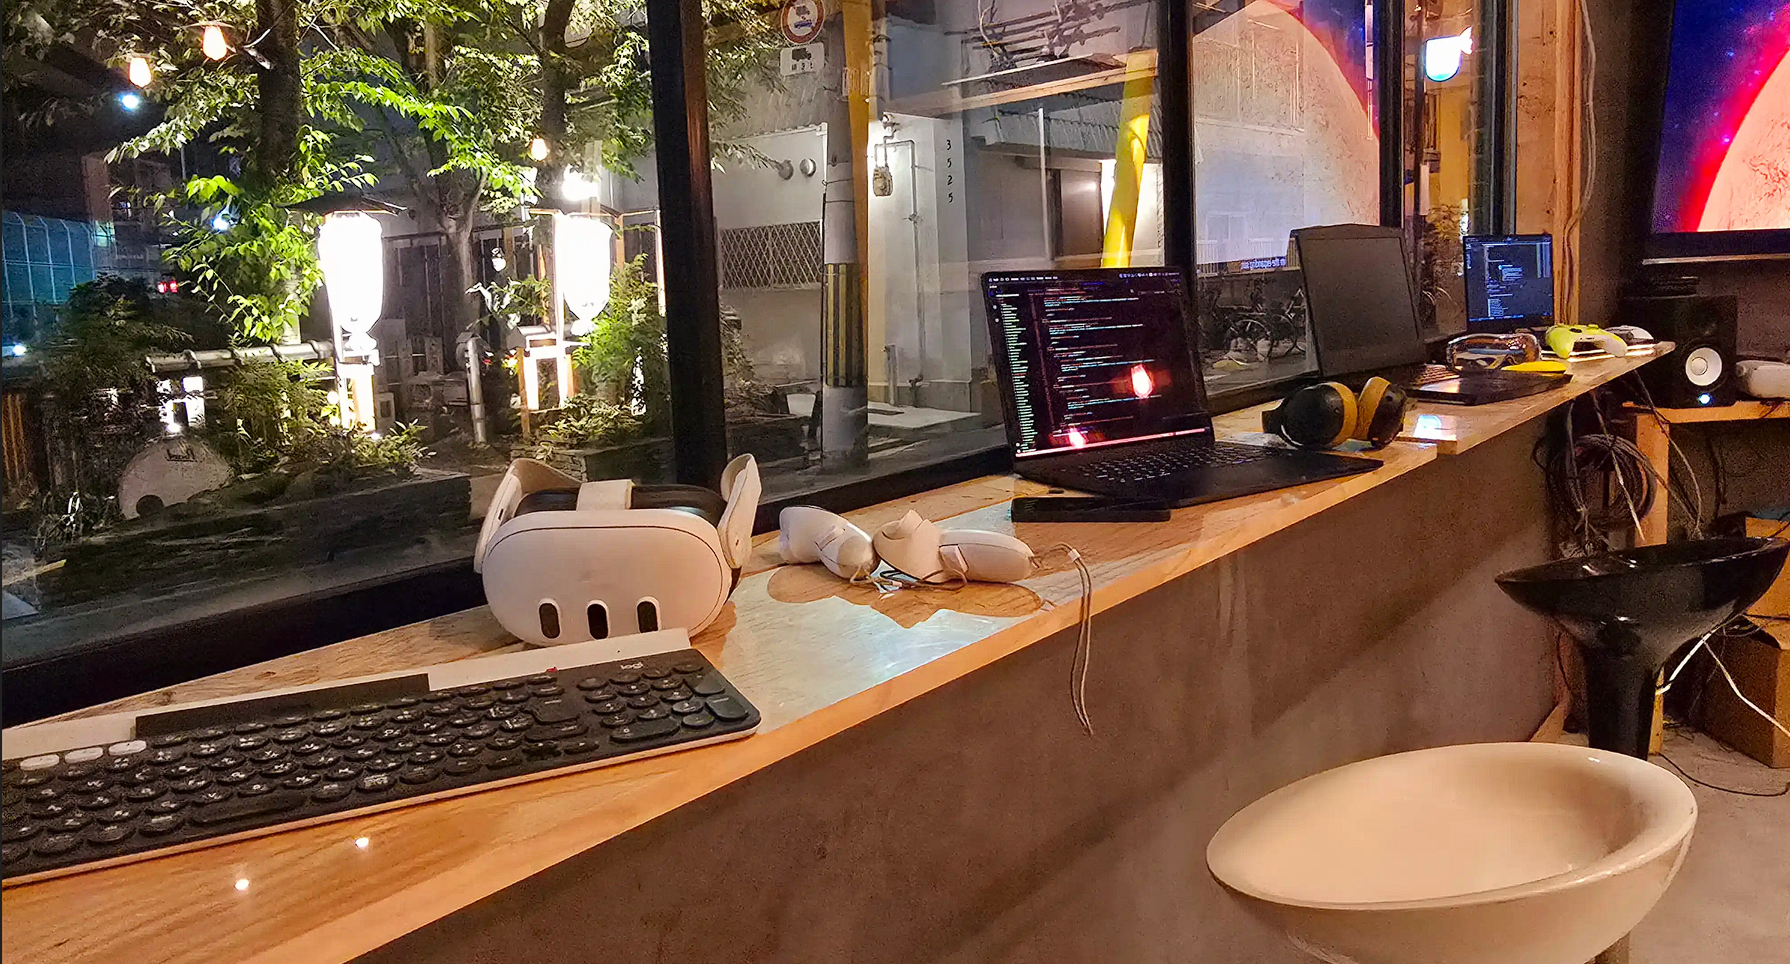
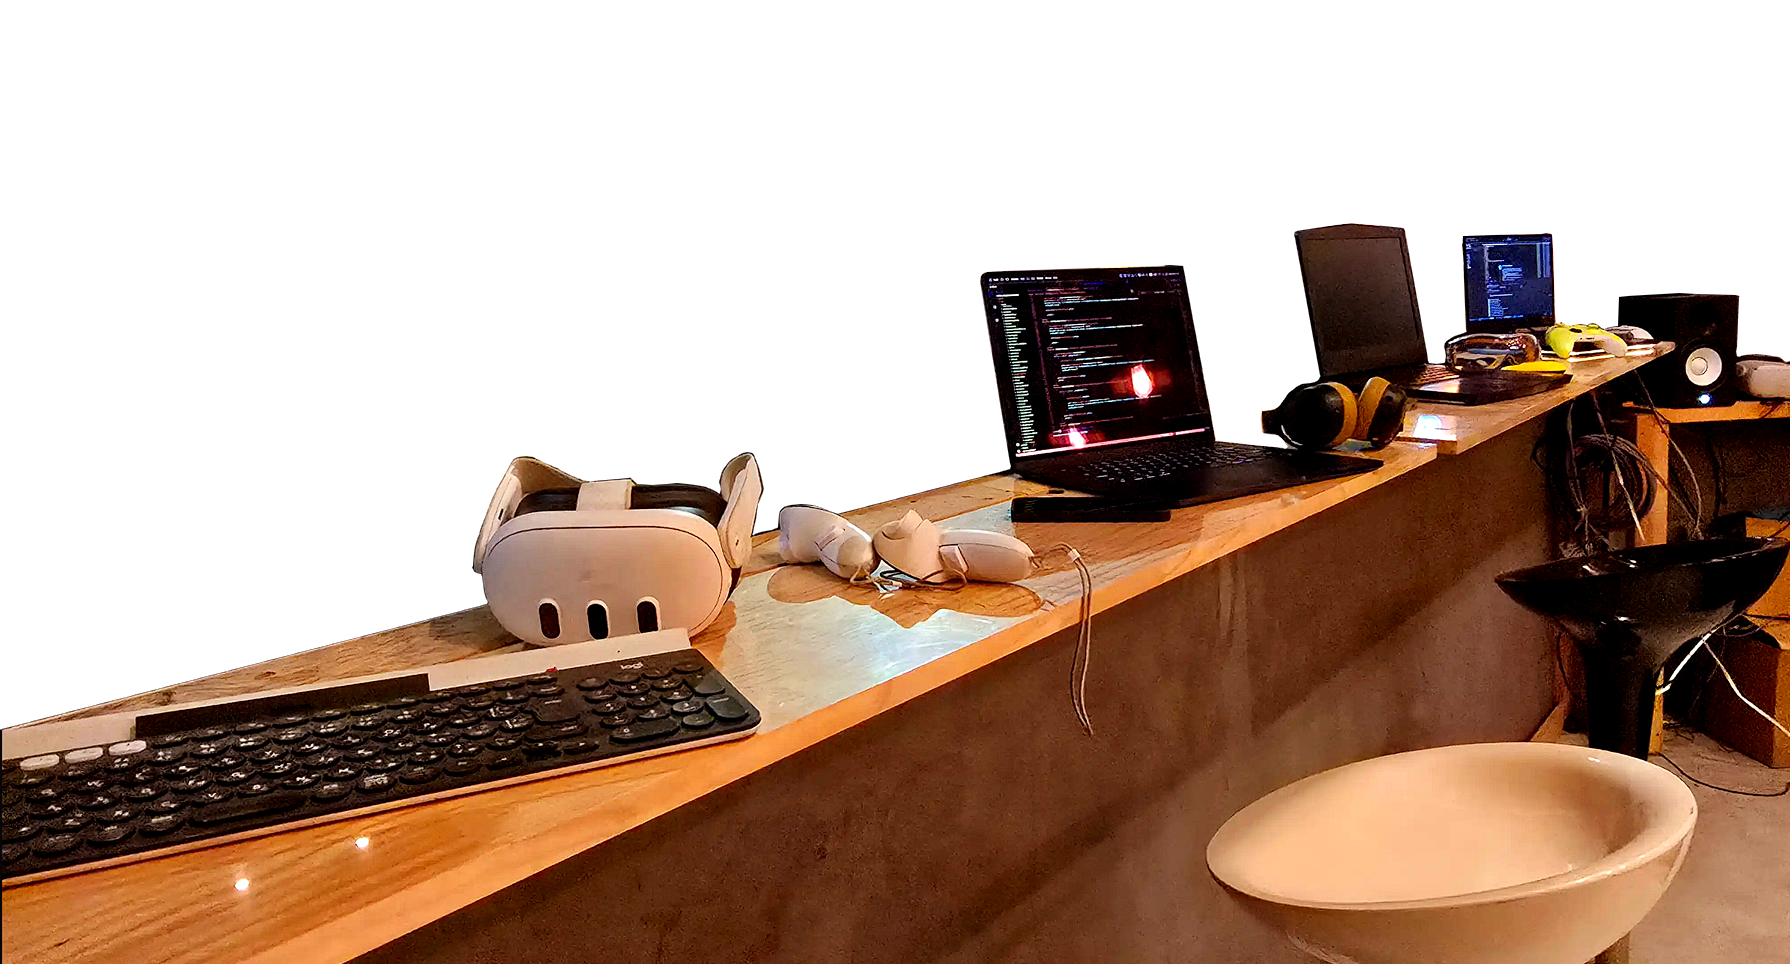
update viz

diff --git a/src/content/spec/studio.md b/src/content/spec/studio.md
@@ -1,14 +1,14 @@
-# Learn. Collaborate. Ship. 
-
+ # Learn. Collaborate. Ship.
+<!--<h1>Learn. Collaborate. Ship. </h1> -->
 <!--
 
 
-        <div class="tags flex flex-wrap justify-evenly gap-2 text-xl font-normal text-75 not-prose">
-            <span >Games</span>
-            <span >Workshops</span>
-            <span >Community</span>
-            <span >Projects</span>
-        </div>
+  <div class="tags flex flex-wrap justify-evenly gap-2 text-xl font-normal text-75 not-prose">
+      <span >Games</span>
+      <span >Workshops</span>
+      <span >Community</span>
+      <span >Projects</span>
+  </div>
 
 
 <div class="tags flex flex-wrap gap-2 text-xl font-normal text-75 not-prose">
@@ -24,7 +24,7 @@
 <div class = "flex felx-wrap gap-2"> 
     <div class = "test-panel px-10 py-1 rounded-lg">
     
-<p>A creative workspace for indie games, 
+<p class="text-center"> A creative workspace for indie games, 
 workshops, livestreams, and community sessions in Osaka.</p>
     </div>
 </div>
@@ -52,6 +52,10 @@ It is a guided production experience focused on teamwork, collaboration, product
 
 Participants will experience what it is like to work on a small game team, contribute to a real production pipeline, and help bring a project from concept to release.
 
+  <div class="studio-register-action">
+    <a class="btn-regular-featured studio-register-button-light" href="#">Register</a>
+  </div>
+
 ---
 
 # What Is Secret Shop Studio?
@@ -66,7 +70,7 @@ The goal is not simply to learn software. </br>
 The goal is to learn how games are actually made. </br></p> 
 
 
-<div class=" studio-experience-split">
+<div class="studio-experience-split studio-experience-split--image-right">
   <div class="studio-experience-copy">
     <p><strong>Participants will gain experience with:</strong></p>
     <ul>
@@ -112,23 +116,24 @@ Leave with portfolio material, production experience, and a published project th
 
 ---
 
-# Our Philosophy
+#  Our Philosophy 
 
-Secret Shop Studio is **project-driven rather than curriculum-driven**.</br>
-Participants will inevitably learn tools, workflows, and production practices throughout the project.</br>
-However, the primary goal is not to teach a predefined curriculum.</br>
-The primary goal is to guide a team through the process of planning, building, and shipping a game.</br>
-When challenges arise, participants will be encouraged to learn what they need to move the project forward.</br>
-Sometimes this may involve mentorship.</br>
-Sometimes this may involve learning new tools.</br>
-Sometimes it may involve adapting the project scope.</br>
-The project drives the learning.</br>
+
+<p class="text-center">Secret Shop Studio is <strong>project-driven rather than curriculum-driven</strong>.</p>
+<p class="text-center">Participants will inevitably learn tools, workflows, and production practices throughout the project.</p>
+<p class="text-center">However, the primary goal is not to teach a predefined curriculum.</p>
+<p class="text-center">The primary goal is to guide a team through the process of planning, building, and shipping a game.</p>
+<p class="text-center">When challenges arise, participants will be encouraged to learn what they need to move the project forward.</p>
+<p class="text-center">Sometimes this may involve mentorship. </p>
+<p class="text-center">Sometimes this may involve learning new tools.</p>
+<p class="text-center">Sometimes it may involve adapting the project scope.</p>
+<p class="text-center">The project drives the learning.</p>
 
 ---
 <h1 style="text-align: center;">
   FAQ
 </h1>
-<details class="studio-foldout">
+<details class="studio-foldout ">
 <summary>What Makes This Different?</summary>
 
 <p>Most educational programs focus on teaching skills.</p>
@@ -265,49 +270,61 @@ The project drives the learning.</br>
 
 # Team Structure
 
-Every cohort will be different.</br>
-Projects will be selected based on the skills, interests, and availability of participants.</br>
-The goal is not to force a team into a project.</br>
-The goal is to find a project that fits the team.</br>
+<p class="text-center">Every cohort will be different.</p>
+<p class="text-center">Projects will be selected based on the skills, interests, and availability of participants.</p>
+<p class="text-center">The goal is not to force a team into a project. The goal is to find a project that fits the team.</p>
+<hr class="h-px my-8 bg-neutral-quaternary border-0">
+</br>
+<strong>Projects may involve:</strong>
+<div class="studio-experience-split">
+  <div class="studio-experience-copy">
+    
+  <ul>
+    <li>Programming</li>
+    <li>Art</li>
+    <li>Animation</li>
+    <li>Audio</li>
+    <li>Design</li>
+    <li>Writing</li>
+    <li>Production</li>
+    <li>QA</li>
+  </ul>
+  </div>
+  <div class="team-struct-image" role="img" aria-label="Secret Shop Studio game screen"></div>
+</div>
 
-**Projects may involve:**
-
-* Programming
-* Art
-* Animation
-* Audio
-* Design
-* Writing
-* Production
-* QA
-
-Not every project will require every role.
+ Not every project will require every role.
 
 ---
 
 # The Role Of Secret Shop
 
-Secret Shop Studio is not about having one person build a game while everyone watches.</br>
-Participants build the project.
+<pre class="custom-code "><code>
+<span class="custom-code-line">Secret Shop Studio is not about having one person build a game while everyone watches.</span>
+<span class="custom-code-line">Participants build the project.</span>
+<span class="custom-code-line"> </span>
+<span class="custom-code-line"> </span>
+<span class="custom-code-line"><strong>Secret Shop provides:</strong> </span>
+<span class="custom-code-line"><span class="code-green">*</span> Guidance</span>
+<span class="custom-code-line"><span class="code-green">*</span> Mentorship</span>
+<span class="custom-code-line"><span class="code-green">*</span> Production support</span>
+<span class="custom-code-line"><span class="code-green">*</span> Technical support</span>
+<span class="custom-code-line"><span class="code-green">*</span> Project structure</span>
+<span class="custom-code-line"><span class="code-green">*</span> Accountability</span>
+<span class="custom-code-line"><span class="code-green">*</span> A safety net when challenges arise</span>
+<span class="custom-code-line"> </span>
 
-**Secret Shop provides:**
+<span class="custom-code-line">The goal is to help teams stay focused, motivated, and moving toward release.</span>
+<span class="custom-code-line">Shipping is more important than perfection.</span>
+<span class="custom-code-line">Learning is more important than ambition.</span>
+</code></pre>
 
-* Guidance
-* Mentorship
-* Production support
-* Technical support
-* Project structure
-* Accountability
-* A safety net when challenges arise
 
-The goal is to help teams stay focused, motivated, and moving toward release.</br>
-Shipping is more important than perfection.</br>
-Learning is more important than ambition.
 
 <div class="studio-role-image" role="img" aria-label="Secret Shop Studio game screen"></div>
 
 ---
-
+<!--
 # Becoming An Effective Team Member
 
 Secret Shop Studio exists to help participants experience the complete process of creating, collaborating on, and shipping a game while developing the skills needed to be an effective team member and, for those interested, the skills necessary to lead future projects and teams.
@@ -321,8 +338,9 @@ That is perfectly fine.
 Great teams are built from strong contributors as much as strong leaders.
 
 The program is designed to help participants become reliable collaborators who understand how production works and how to help a project succeed.
-
+-->
 ---
+
 
 # Looking Forward
 <pre class="custom-code "><code>
@@ -332,7 +350,7 @@ The program is designed to help participants become reliable collaborators who u
 <span class="custom-code-line">Tomorrow's teammate may become a future mentor.</span>
 <span class="custom-code-line">The hope is that each cohort helps strengthen the next one.</span>
 </code></pre>
-
+<!--
 <h1 style="text-align: center;">
   Learn. Collaborate. Ship. Showcase.
 </h1>
@@ -343,7 +361,9 @@ The program is designed to help participants become reliable collaborators who u
 | <span class="btn-regular-featured px-3 py-1 rounded-lg">Games</span>| <span class="btn-regular-featured px-3 py-1 rounded-lg">Workshops</span>| <span class="btn-regular-featured px-3 py-1 rounded-lg">Community</span>| <span class="btn-regular-featured px-3 py-1 rounded-lg">Projects</span> |
 | :--------- | :----------: | ----------: | ----------: |
 | ![Secret Shop Osaka studio](/images/10.webp)|![Secret Shop Osaka studio](/images/10.webp)|![Secret Shop Osaka studio](/images/10.webp) |![Secret Shop Osaka studio](/images/10.webp) |
+-->
 
+<!--
 ---
 
 # Current Status
@@ -353,29 +373,38 @@ Applications are not currently open.
 We are collecting interest from potential participants while the first cohort is being planned.
 
 ---
-
+-->
 # Register Interest
 
-<pre class="custom-code "><code>
-<span class="custom-code-line font-extrabold text-base">Interested in joining a future cohort?</span>
-<span class="custom-code-line">Register your interest below.</span>
-<span class="custom-code-line">This is not a final application.</span>
-<span class="custom-code-line"> </span>
-<span class="custom-code-line font-extrabold text-base">Interested in joining a future cohort?</span>
-<span class="custom-code-line"> </span>
-<span class="custom-code-line"><span class="code-green">*</span> Who is interested</span>
-<span class="custom-code-line"><span class="code-green">*</span> What skills people bring</span>
-<span class="custom-code-line"><span class="code-green">*</span> What roles people would like to explore</span>
-<span class="custom-code-line"><span class="code-green">*</span> Availability</span>
-<span class="custom-code-line"><span class="code-green">*</span> Potential project directions</span>
-<span class="custom-code-line"> </span>
-<span class="custom-code-line font-extrabold text-base"> Interest Form: </span>
-<span class="custom-code-line"> [Insert Google Form or application link]</span>
-<span class="custom-code-line"> </span>
-<span class="custom-code-line font-extrabold text-base"> Contact: </span>
-
-<span class="custom-code-line"> [Insert contact email]</span>
-</code></pre>
+<div class="studio-register-split">
+  <pre class="custom-code studio-register-copy"><code>
+  <span class="custom-code-line font-extrabold text-base">Interested in joining a future cohort?</span>
+  <span class="custom-code-line"> </span>
+  <span class="custom-code-line">Register your interest below.</span>
+  <span class="custom-code-line">This is not a final application.</span>
+  <span class="custom-code-line"> </span>
+  <span class="custom-code-line font-extrabold text-base">Interested in joining a future cohort?</span>
+  <span class="custom-code-line"> </span>
+  <span class="custom-code-line"><span class="code-green">*</span> Who is interested</span>
+  <span class="custom-code-line"><span class="code-green">*</span> What skills people bring</span>
+  <span class="custom-code-line"><span class="code-green">*</span> What roles people would like to explore</span>
+  <span class="custom-code-line"><span class="code-green">*</span> Availability</span>
+  <span class="custom-code-line"><span class="code-green">*</span> Potential project directions</span>
+  <span class="custom-code-line"> </span>
+  <!--
+  <span class="custom-code-line font-extrabold text-base">Interest Form: </span>
+  <span class="custom-code-line"> </span>
+  <span class="custom-code-line">[Insert Google Form or application link]</span>
+  <span class="custom-code-line"> </span>
+  <span class="custom-code-line font-extrabold text-base">Contact: </span>
+  <span class="custom-code-line"> </span>
+  <span class="custom-code-line">[Insert contact email]</span> -->
+  </code></pre>
+  <div class="studio-register-action">
+    <div class="studio-register-image" role="img" aria-label="Secret Shop Studio registration"></div>
+    <a class="btn-regular-featured studio-register-button" href="#">Register</a>
+  </div>
+</div>
 
 ---
 
@@ -392,3 +421,5 @@ We are collecting interest from potential participants while the first cohort is
 
 <span class="custom-code-line"> Small projects. Real teamwork. Finished games.</span>
 </code></pre>
+
+<div class="studio-footer-image" role="img" aria-label="meshOut"></div>
